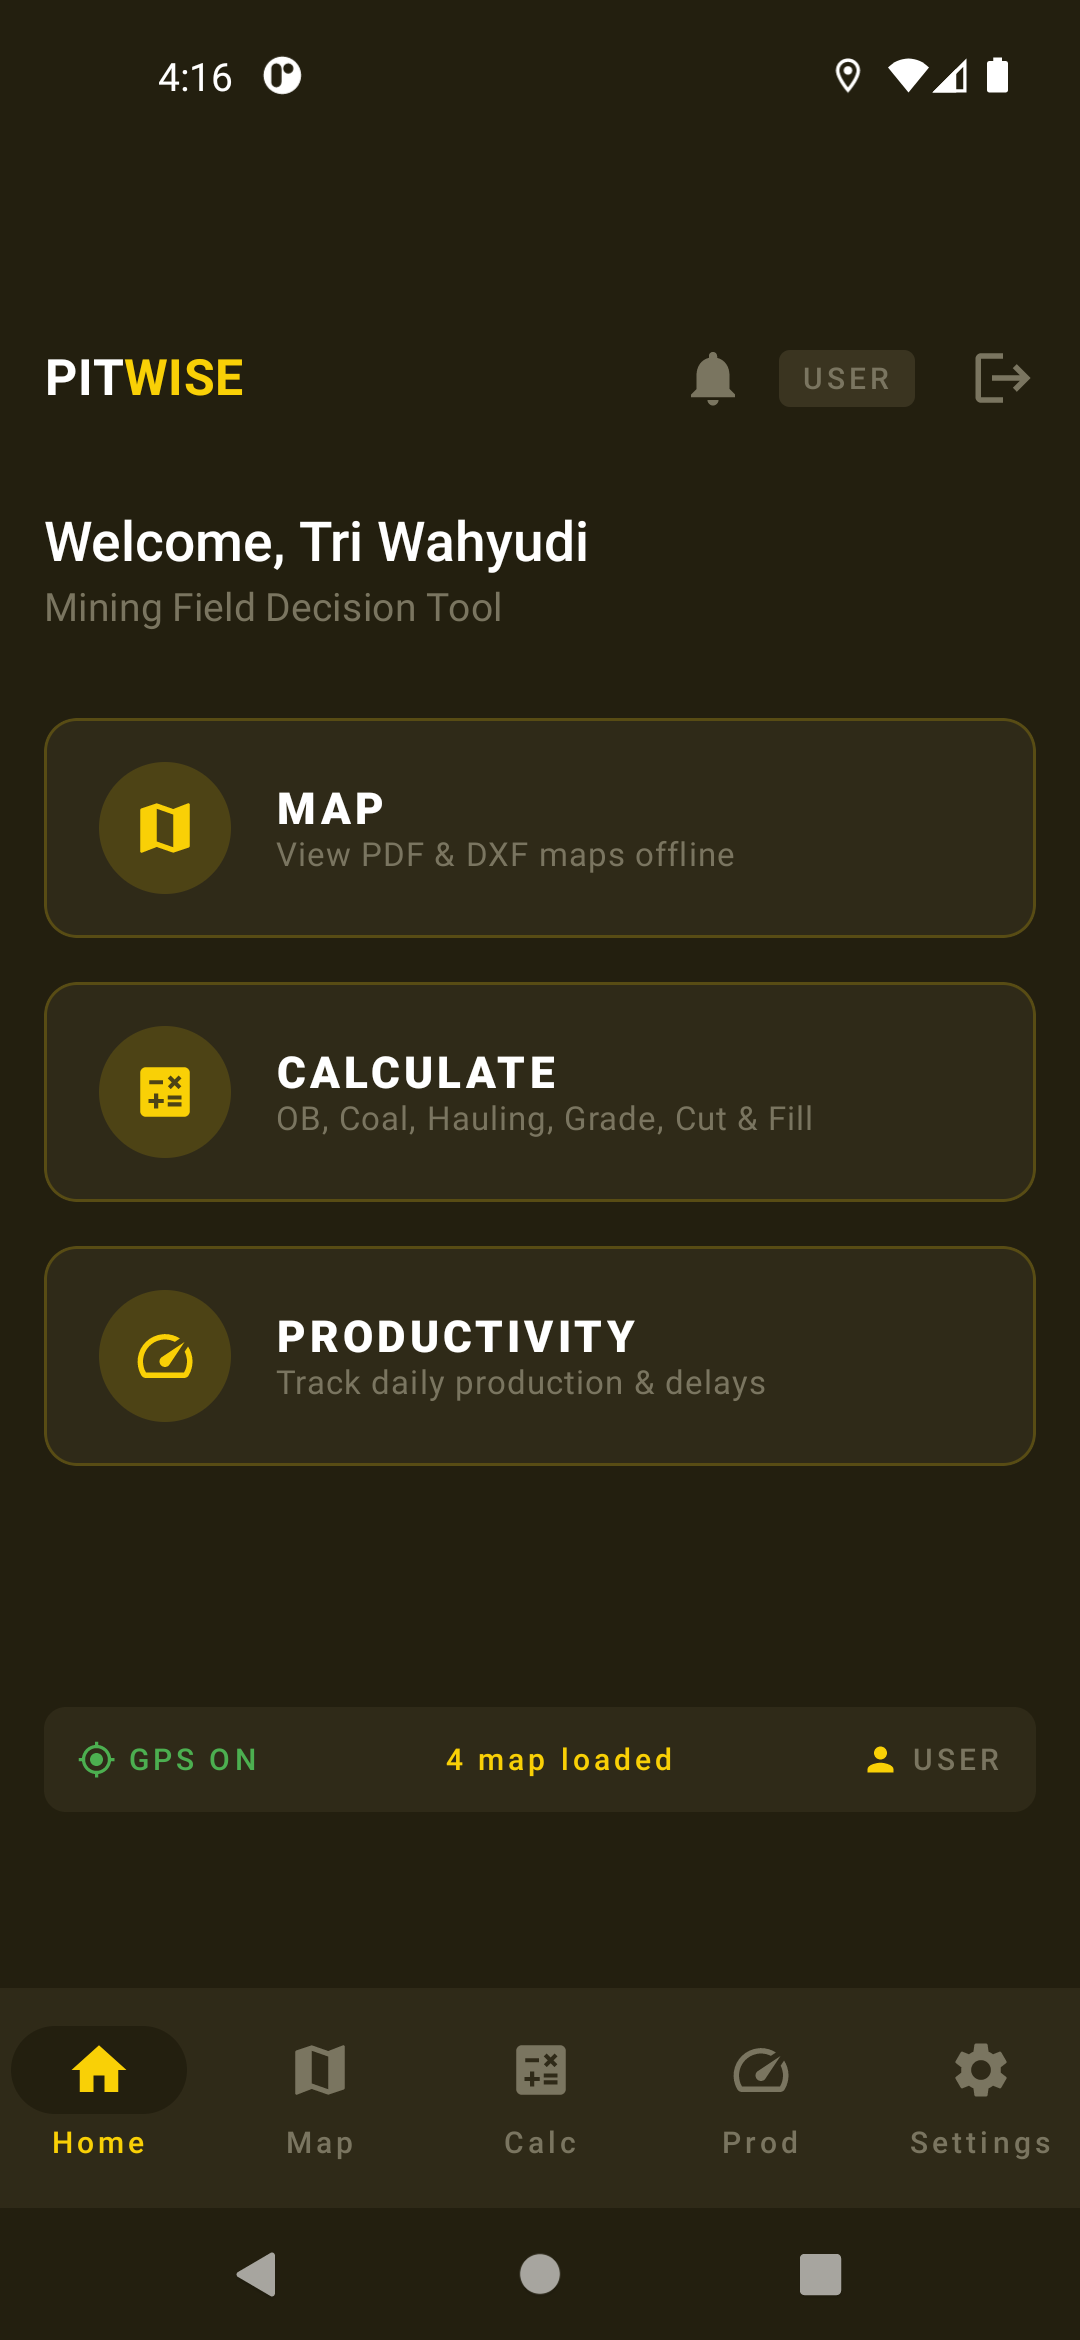
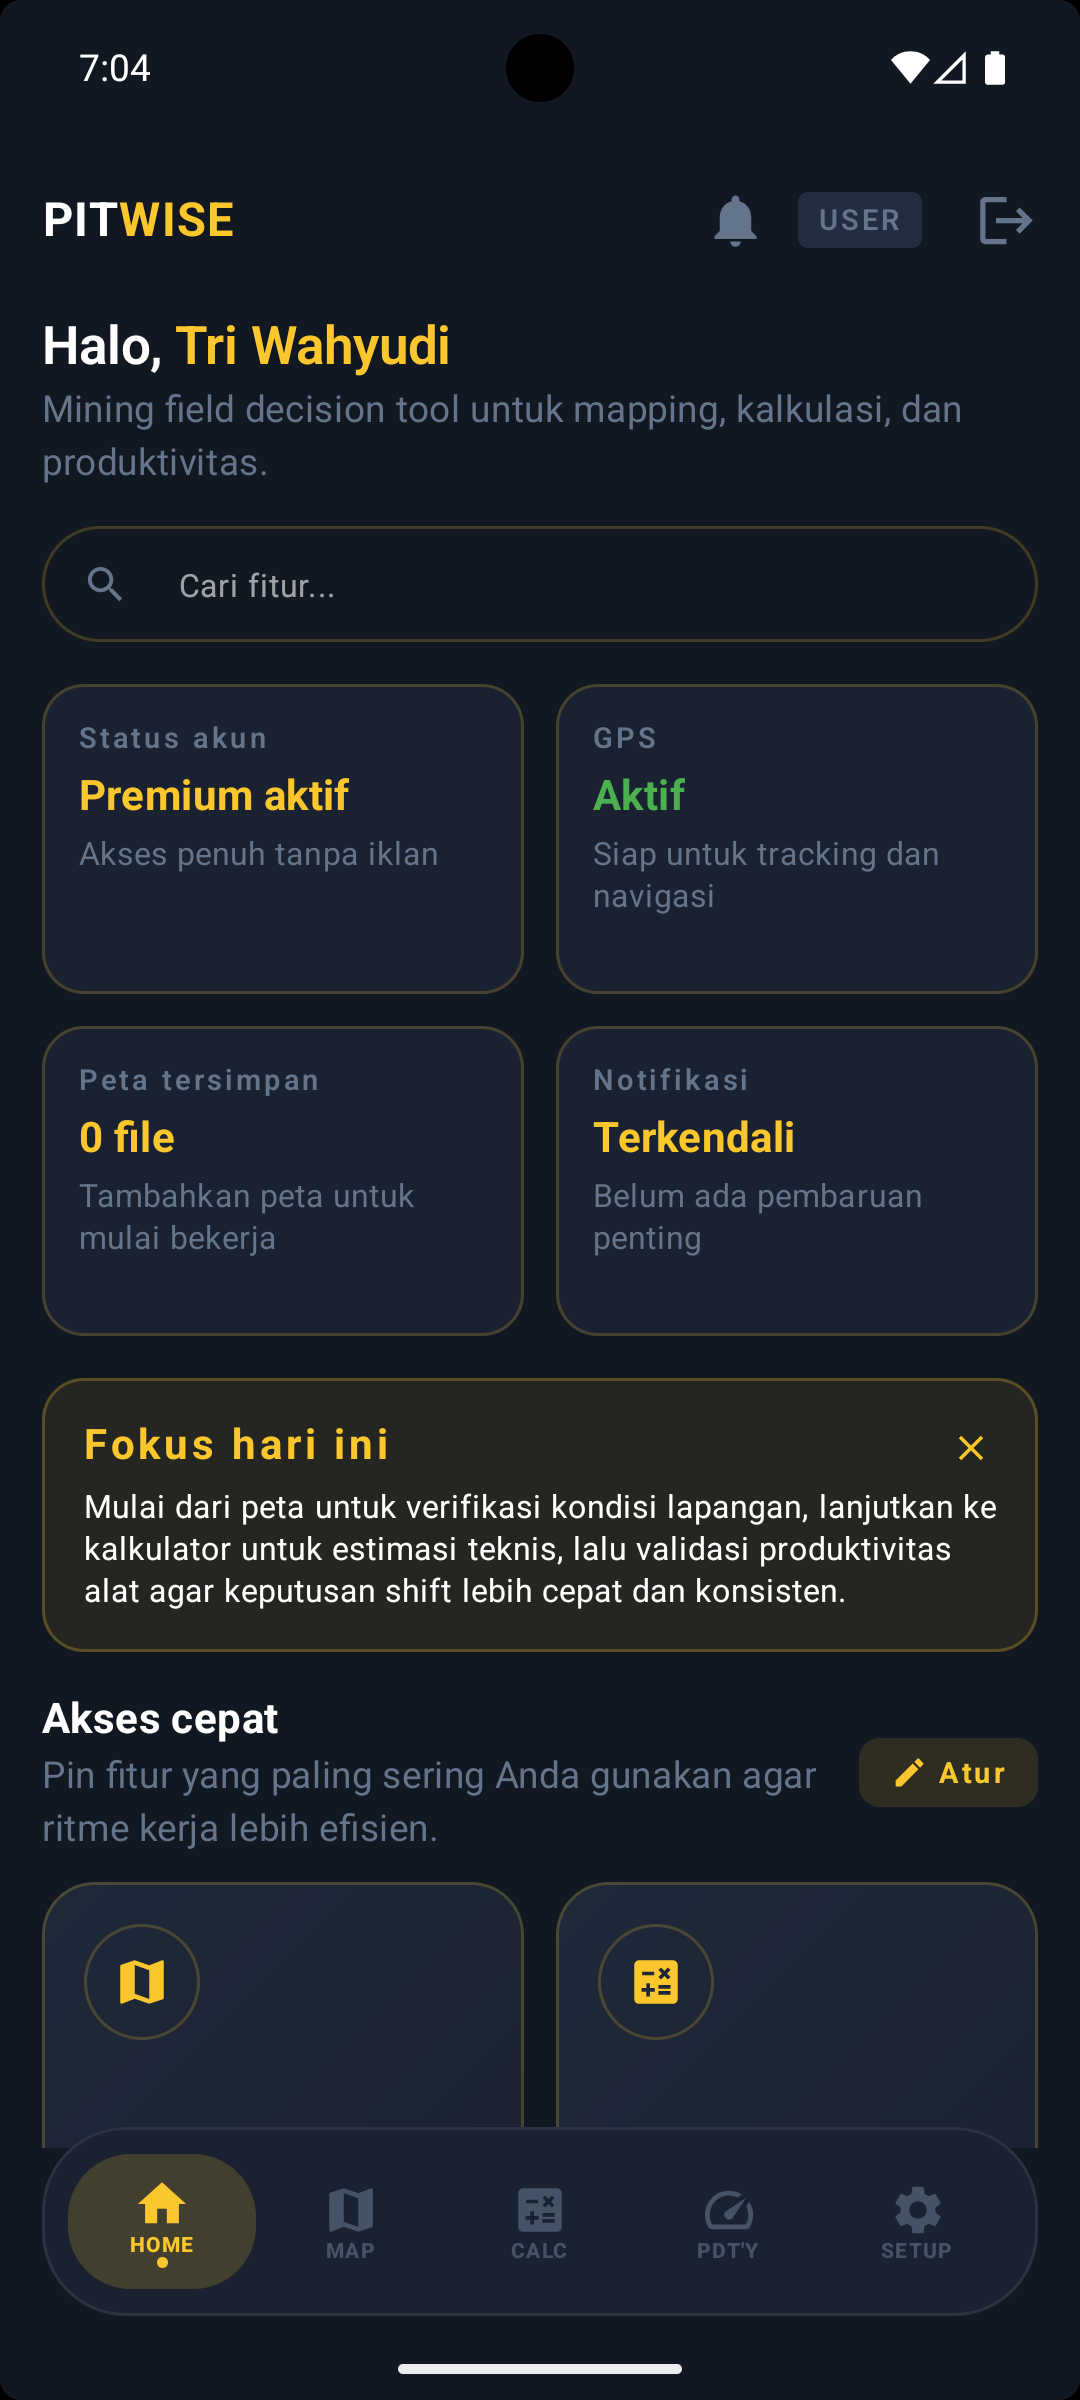
Update website assets and html files

diff --git a/index.html b/index.html
@@ -55,7 +55,7 @@
     <div class="container">
       <div class="stats-grid">
         <div class="stat-item">
-          <span class="stat-number">100+</span>
+          <span class="stat-number">263</span>
           <span class="stat-label">Pengguna Aktif</span>
         </div>
         <div class="stat-item">
@@ -91,7 +91,7 @@
             tempat keputusan dibuat.</p>
         </div>
         <div class="about-image">
-          <img src="asset/home.png" alt="PITWISE App Screenshot">
+          <img src="asset/home.png" alt="Tangkapan layar terbaru PITWISE">
         </div>
       </div>
     </div>
@@ -108,32 +108,44 @@
       <div class="carousel-track">
         <!-- First set -->
         <div class="carousel-slide">
+          <img src="asset/login.png" alt="Login" loading="lazy">
+          <span class="carousel-caption">Login</span>
+        </div>
+        <div class="carousel-slide">
           <img src="asset/home.png" alt="Home" loading="lazy">
           <span class="carousel-caption">Home</span>
         </div>
         <div class="carousel-slide">
-          <img src="asset/map.png" alt="Pustaka Peta" loading="lazy">
-          <span class="carousel-caption">Pustaka Peta</span>
+          <img src="asset/tambahpeta.png" alt="Tambah Peta" loading="lazy">
+          <span class="carousel-caption">Tambah Peta</span>
         </div>
         <div class="carousel-slide">
-          <img src="asset/mappdf.png" alt="Peta PDF" loading="lazy">
+          <img src="asset/petapdf.png" alt="Peta PDF" loading="lazy">
           <span class="carousel-caption">Viewer GeoPDF</span>
         </div>
         <div class="carousel-slide">
-          <img src="asset/mapdxf.png" alt="Peta DXF" loading="lazy">
+          <img src="asset/petadxf.png" alt="Peta DXF" loading="lazy">
           <span class="carousel-caption">Viewer DXF</span>
         </div>
         <div class="carousel-slide">
-          <img src="asset/basemap.png" alt="Base Map" loading="lazy">
-          <span class="carousel-caption">Base Map</span>
+          <img src="asset/basemaptracking.png" alt="Base Map Tracking" loading="lazy">
+          <span class="carousel-caption">Base Map Tracking</span>
         </div>
         <div class="carousel-slide">
-          <img src="asset/calculate.png" alt="Kalkulator" loading="lazy">
+          <img src="asset/calculator.png" alt="Kalkulator" loading="lazy">
           <span class="carousel-caption">Kalkulator Tambang</span>
         </div>
         <div class="carousel-slide">
-          <img src="asset/productivity.png" alt="Produktivitas" loading="lazy">
+          <img src="asset/produktifitas.png" alt="Produktivitas" loading="lazy">
           <span class="carousel-caption">Produktivitas</span>
+        </div>
+        <div class="carousel-slide">
+          <img src="asset/prodexcavator.png" alt="Produktivitas Excavator" loading="lazy">
+          <span class="carousel-caption">Produktivitas Excavator</span>
+        </div>
+        <div class="carousel-slide">
+          <img src="asset/cycletimeloading.png" alt="Cycle Time Loading" loading="lazy">
+          <span class="carousel-caption">Cycle Time Loading</span>
         </div>
         <div class="carousel-slide">
           <img src="asset/setting.png" alt="Pengaturan" loading="lazy">
@@ -141,32 +153,44 @@
         </div>
         <!-- Duplicate for infinite scroll -->
         <div class="carousel-slide">
+          <img src="asset/login.png" alt="Login" loading="lazy">
+          <span class="carousel-caption">Login</span>
+        </div>
+        <div class="carousel-slide">
           <img src="asset/home.png" alt="Home" loading="lazy">
           <span class="carousel-caption">Home</span>
         </div>
         <div class="carousel-slide">
-          <img src="asset/map.png" alt="Pustaka Peta" loading="lazy">
-          <span class="carousel-caption">Pustaka Peta</span>
+          <img src="asset/tambahpeta.png" alt="Tambah Peta" loading="lazy">
+          <span class="carousel-caption">Tambah Peta</span>
         </div>
         <div class="carousel-slide">
-          <img src="asset/mappdf.png" alt="Peta PDF" loading="lazy">
+          <img src="asset/petapdf.png" alt="Peta PDF" loading="lazy">
           <span class="carousel-caption">Viewer GeoPDF</span>
         </div>
         <div class="carousel-slide">
-          <img src="asset/mapdxf.png" alt="Peta DXF" loading="lazy">
+          <img src="asset/petadxf.png" alt="Peta DXF" loading="lazy">
           <span class="carousel-caption">Viewer DXF</span>
         </div>
         <div class="carousel-slide">
-          <img src="asset/basemap.png" alt="Base Map" loading="lazy">
-          <span class="carousel-caption">Base Map</span>
+          <img src="asset/basemaptracking.png" alt="Base Map Tracking" loading="lazy">
+          <span class="carousel-caption">Base Map Tracking</span>
         </div>
         <div class="carousel-slide">
-          <img src="asset/calculate.png" alt="Kalkulator" loading="lazy">
+          <img src="asset/calculator.png" alt="Kalkulator" loading="lazy">
           <span class="carousel-caption">Kalkulator Tambang</span>
         </div>
         <div class="carousel-slide">
-          <img src="asset/productivity.png" alt="Produktivitas" loading="lazy">
+          <img src="asset/produktifitas.png" alt="Produktivitas" loading="lazy">
           <span class="carousel-caption">Produktivitas</span>
+        </div>
+        <div class="carousel-slide">
+          <img src="asset/prodexcavator.png" alt="Produktivitas Excavator" loading="lazy">
+          <span class="carousel-caption">Produktivitas Excavator</span>
+        </div>
+        <div class="carousel-slide">
+          <img src="asset/cycletimeloading.png" alt="Cycle Time Loading" loading="lazy">
+          <span class="carousel-caption">Cycle Time Loading</span>
         </div>
         <div class="carousel-slide">
           <img src="asset/setting.png" alt="Pengaturan" loading="lazy">
@@ -333,9 +357,9 @@
 
       <div class="demo-calculator">
         <div class="demo-tabs">
-          <button class="demo-tab active" onclick="showDemoTab('demo-exca')">⛏ Excavator</button>
-          <button class="demo-tab" onclick="showDemoTab('demo-haul')">🚛 Hauler</button>
-          <button class="demo-tab" onclick="showDemoTab('demo-cycle')">🔄 Hauling Cycle</button>
+          <button class="demo-tab active" onclick="showDemoTab(this, 'demo-exca')">⛏ Excavator</button>
+          <button class="demo-tab" onclick="showDemoTab(this, 'demo-haul')">🚛 Hauler</button>
+          <button class="demo-tab" onclick="showDemoTab(this, 'demo-cycle')">🔄 Hauling Cycle</button>
         </div>
 
         <!-- EXCAVATOR -->
@@ -560,11 +584,11 @@
             akan merespons dalam satu hari kerja.</p>
           <a href="mailto:admin@pitwise.web.id" class="contact-email">admin@pitwise.web.id</a>
         </div>
-        <form class="contact-form" onsubmit="return false;">
-          <input type="text" placeholder="Nama Anda" required>
-          <input type="email" placeholder="Email Anda" required>
-          <textarea placeholder="Pesan Anda" required></textarea>
-          <button type="submit" class="btn btn-primary">Kirim Pesan</button>
+        <form class="contact-form" id="contactForm">
+          <input type="text" id="contactName" name="name" placeholder="Nama Anda" required>
+          <input type="email" id="contactEmail" name="email" placeholder="Email Anda" required>
+          <textarea id="contactMessage" name="message" placeholder="Pesan Anda" required></textarea>
+          <button type="submit" class="btn btn-primary">Kirim via Email</button>
         </form>
       </div>
     </div>
@@ -597,11 +621,11 @@
     toggle.addEventListener('click', () => links.classList.toggle('active'));
 
     // Demo Calculator
-    function showDemoTab(id) {
+    function showDemoTab(tabButton, id) {
       document.querySelectorAll('.demo-panel').forEach(p => p.classList.remove('active'));
       document.querySelectorAll('.demo-tab').forEach(b => b.classList.remove('active'));
       document.getElementById(id).classList.add('active');
-      event.currentTarget.classList.add('active');
+      tabButton.classList.add('active');
     }
 
     function demoCalcExca() {
@@ -701,6 +725,26 @@
       });
     }, { threshold: 0.3 });
     document.querySelectorAll('.stat-item, .testimonial-card').forEach(el => statsObserver.observe(el));
+
+    const contactForm = document.getElementById('contactForm');
+    contactForm.addEventListener('submit', (event) => {
+      event.preventDefault();
+
+      const name = document.getElementById('contactName').value.trim();
+      const email = document.getElementById('contactEmail').value.trim();
+      const message = document.getElementById('contactMessage').value.trim();
+
+      const subject = `Pesan Website PITWISE dari ${name}`;
+      const body = [
+        `Nama: ${name}`,
+        `Email: ${email}`,
+        '',
+        'Pesan:',
+        message
+      ].join('\n');
+
+      window.location.href = `mailto:admin@pitwise.web.id?subject=${encodeURIComponent(subject)}&body=${encodeURIComponent(body)}`;
+    });
   </script>
 </body>
 

diff --git a/privacy.html b/privacy.html
@@ -208,7 +208,6 @@
             <div class="footer-links">
                 <a href="privacy.html">Kebijakan Privasi</a>
                 <a href="terms.html">Syarat Layanan</a>
-                <a href="tutorial.html">Tutorial</a>
             </div>
         </div>
     </footer>
